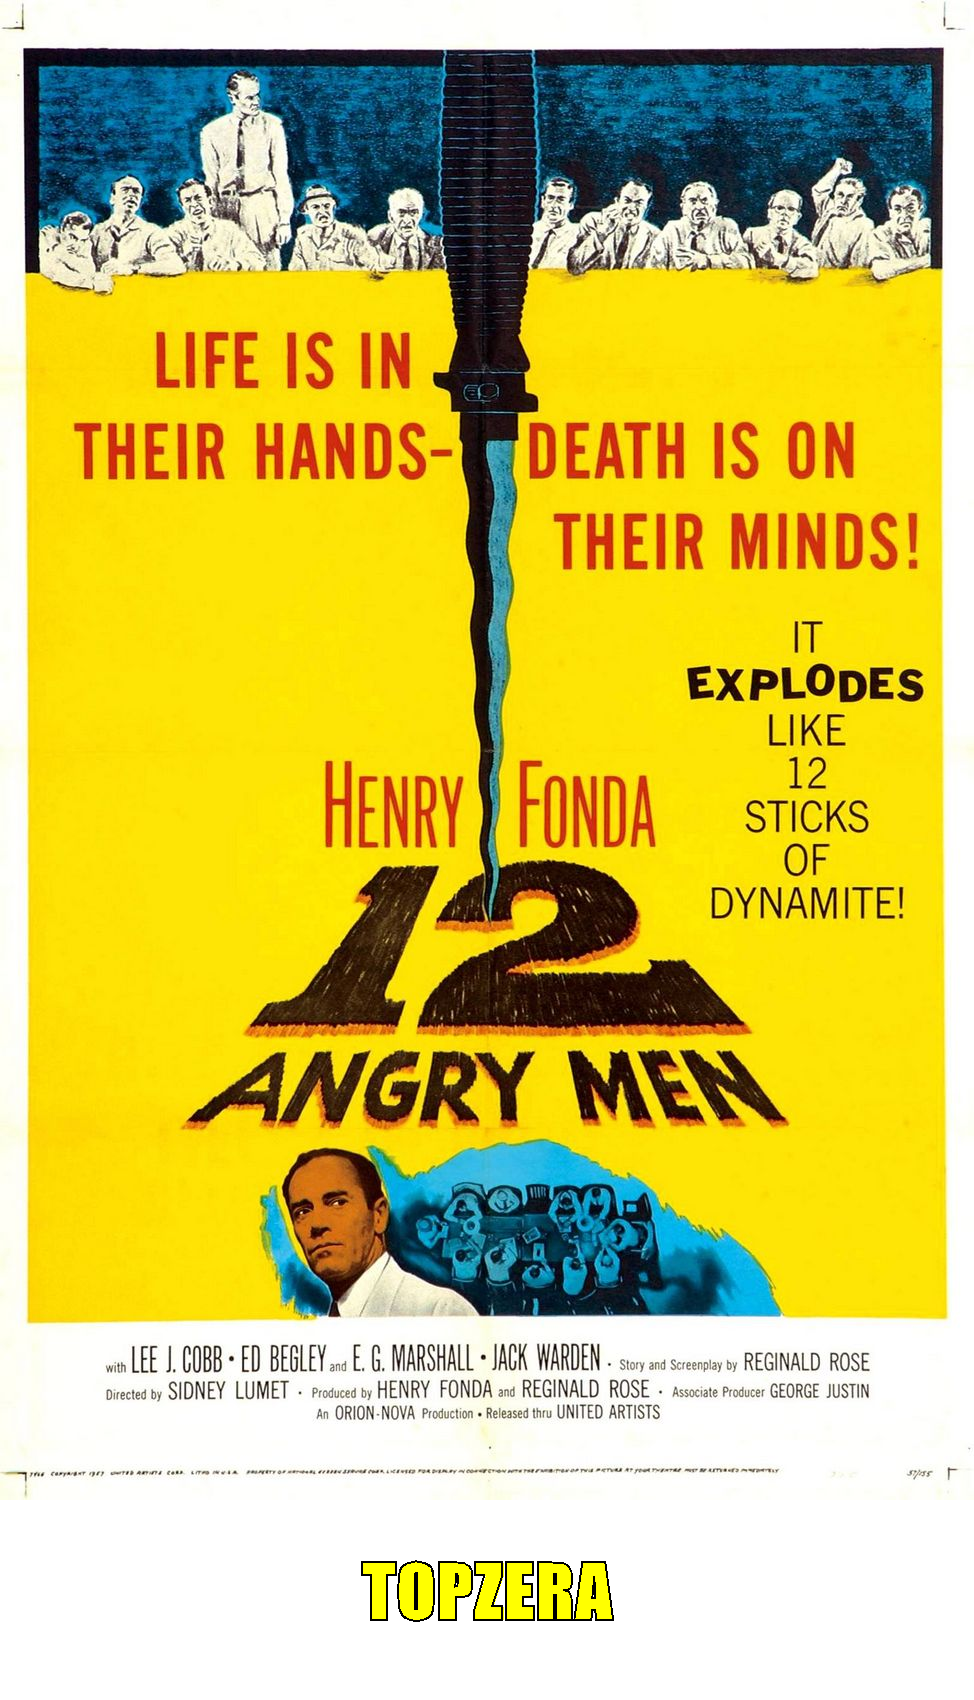
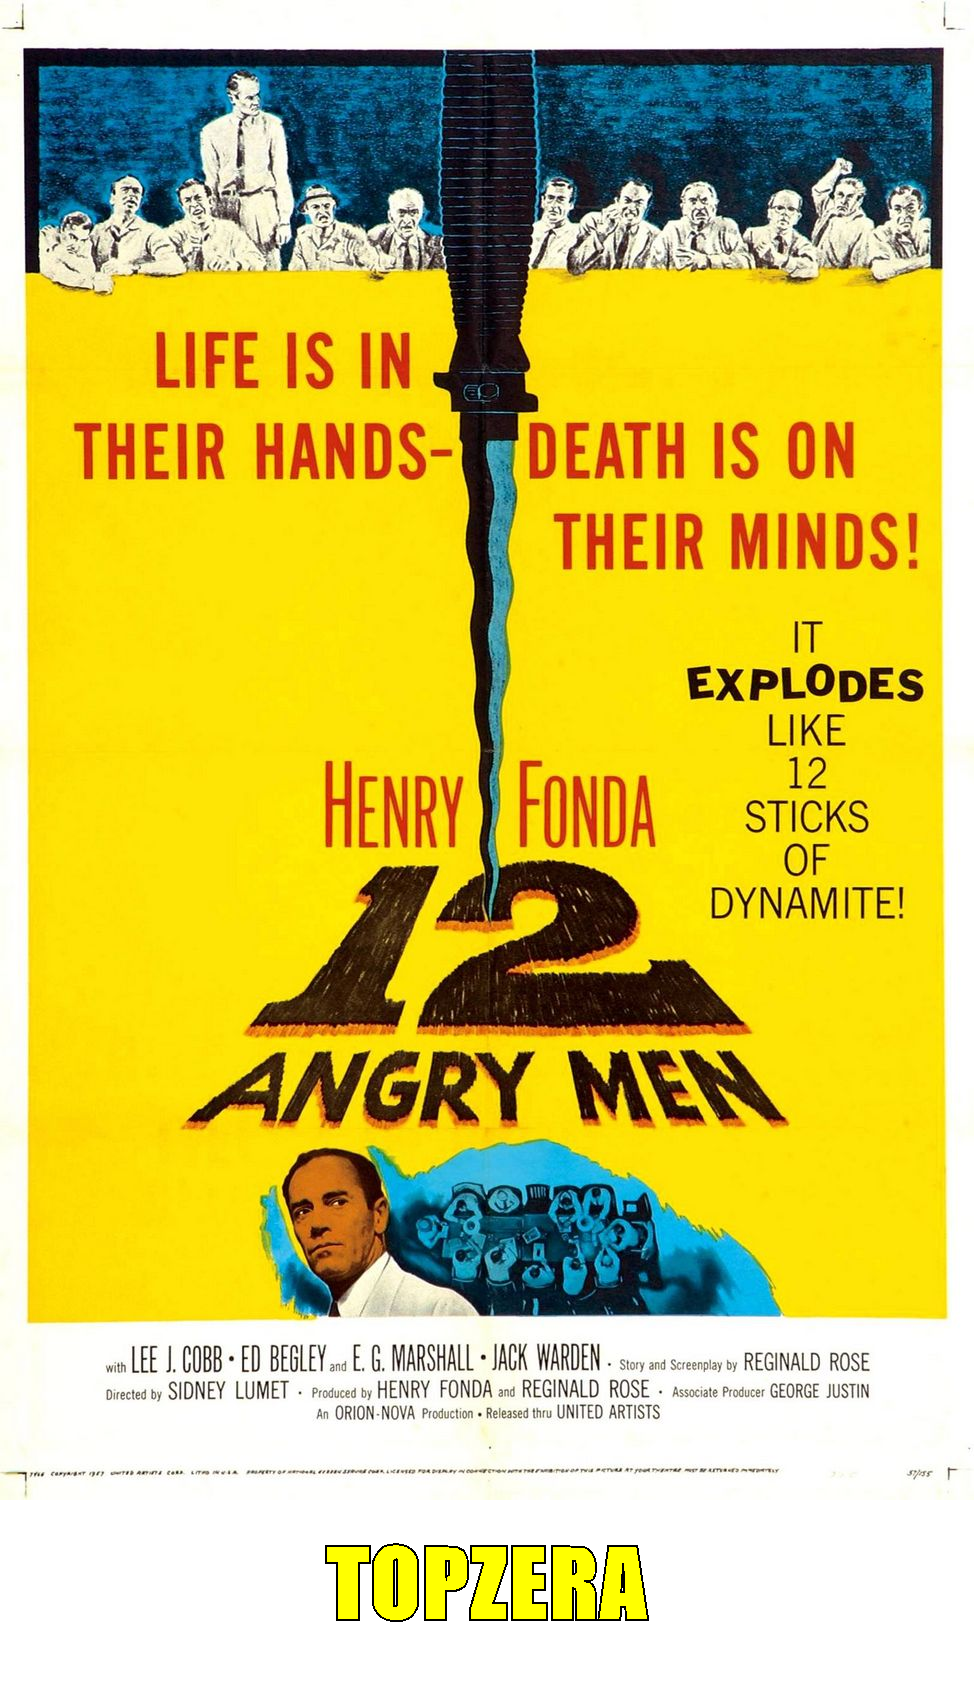
Imersão Aula 3 - add endpoint que retorna filmes mais populares

Changed region(s): [[0.3388, 0.9041, 0.6776, 0.9665]]

diff --git a/Api-movies/src/App.java b/Api-movies/src/App.java
@@ -1,4 +1,3 @@
-import java.io.File;
 import java.io.InputStream;
 import java.net.URL;
 import java.util.List;
@@ -13,8 +12,8 @@ public class App {
     // Api api = Api.NASA;
     // String url = api.getUrl();
 
-    System.out.println("Top 5 filmes IMDB\n");
-    Api api = Api.IMDB_TOP_MOVIES;
+    System.out.println("Filmes populares\n");
+    Api api = Api.IMDB_POPULARES_MOVIES;
     ContentExtractor contentExtractor = api.getContentExtractor();
     ClientHttp httpClient = new ClientHttp();
     String bodyString = httpClient.dateSearch(api.getUrl());
@@ -26,7 +25,7 @@ public class App {
 
 
 
-    for(int i=0; i < 5; i++){
+    for(int i=0; i < 10; i++){
 
       Content content = conteudos.get(i);
 

diff --git a/Api-movies/src/StickerGenerator.java b/Api-movies/src/StickerGenerator.java
@@ -32,7 +32,7 @@ public class StickerGenerator {
 
         //fonte 
         graphics.setColor(Color.YELLOW);
-        Font font = new Font("Impact", Font.BOLD, 70);
+        Font font = new Font("Impact", Font.BOLD, 110);
         graphics.setFont(font);
 
         // escrever frase na imagem
